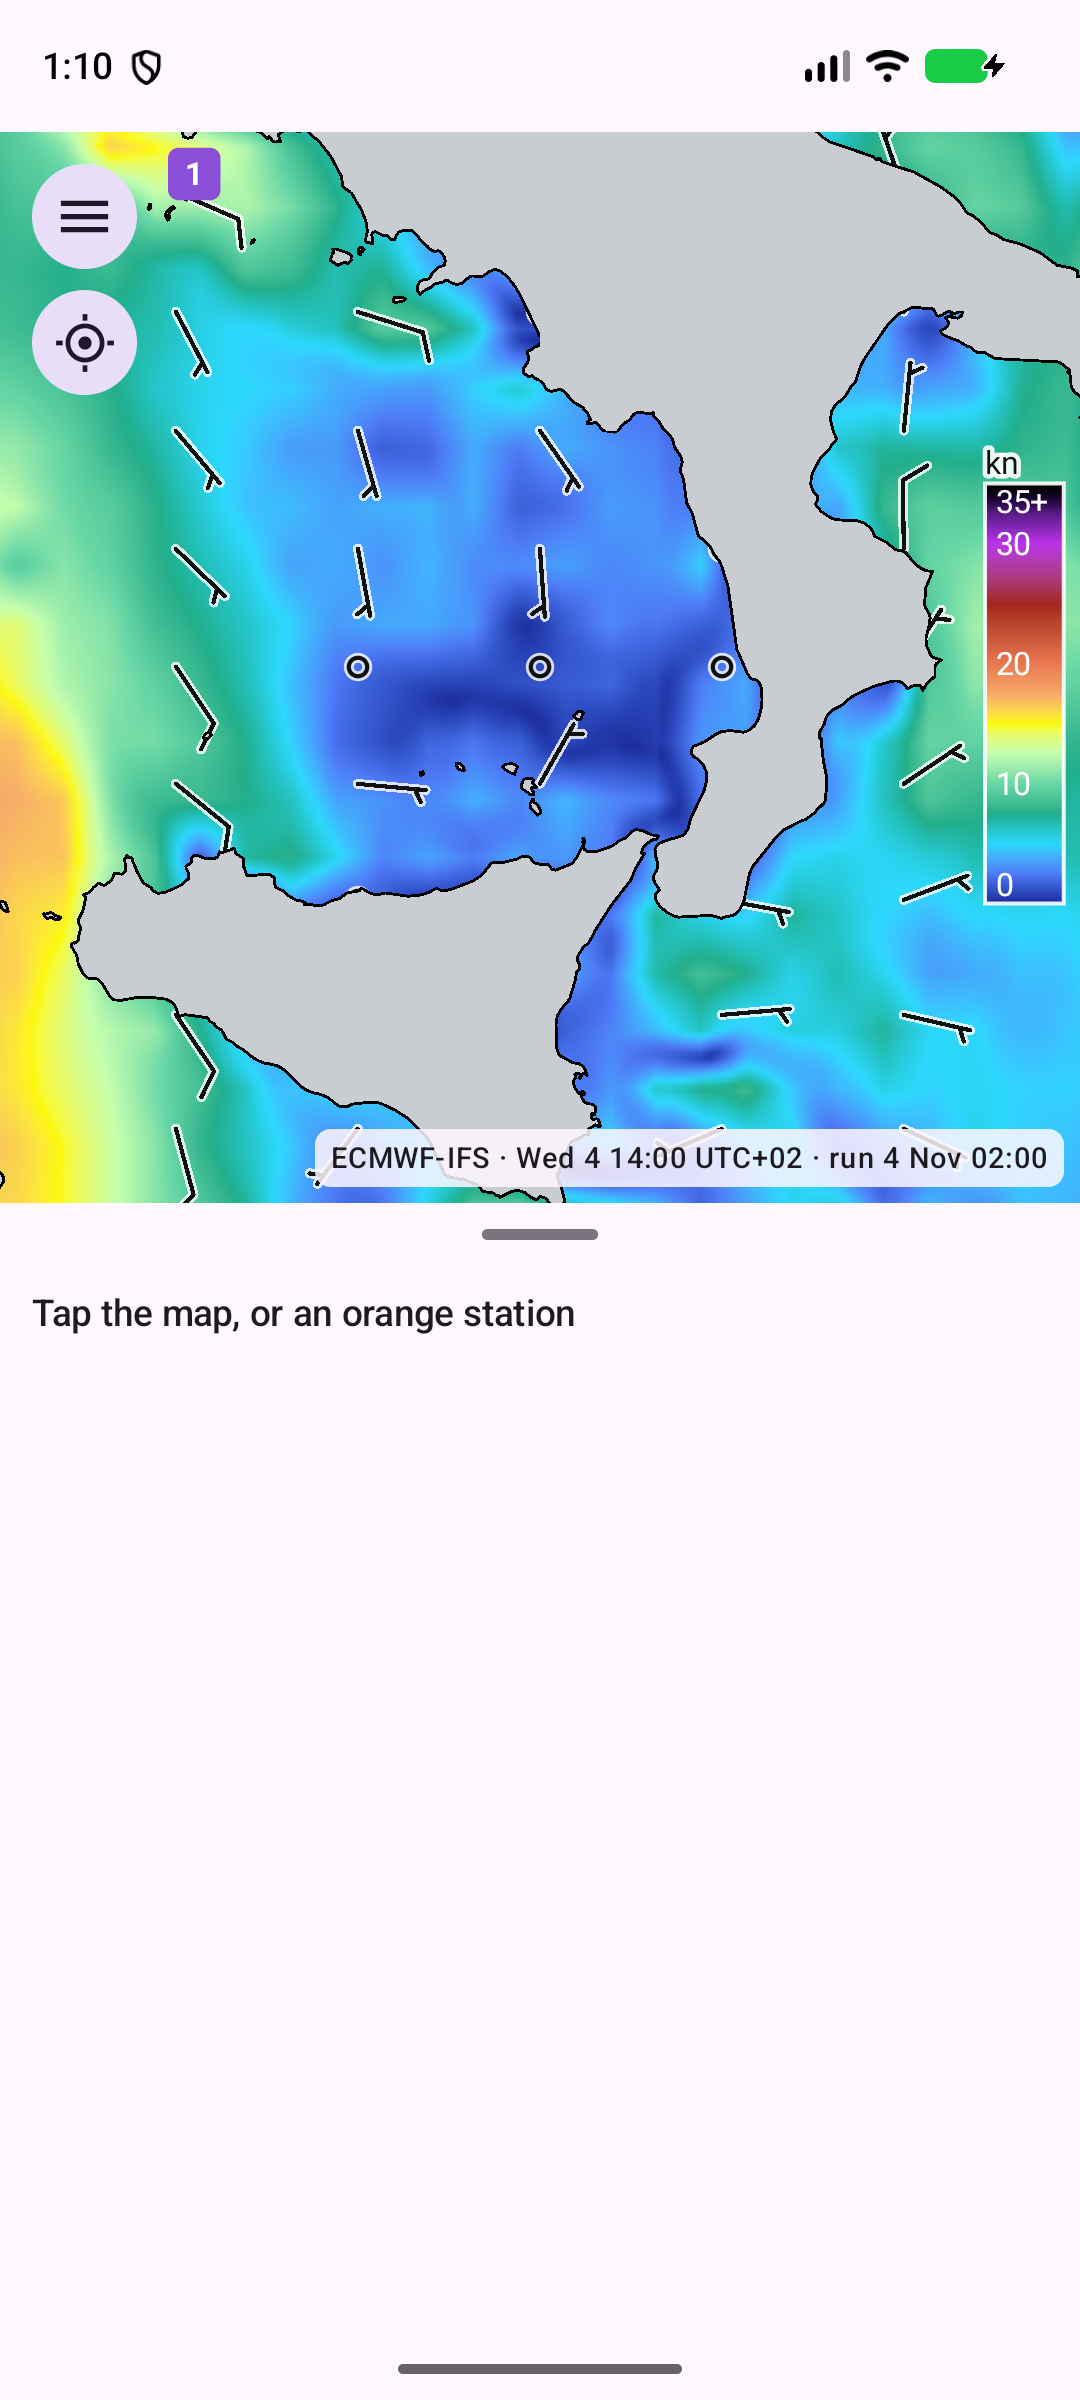
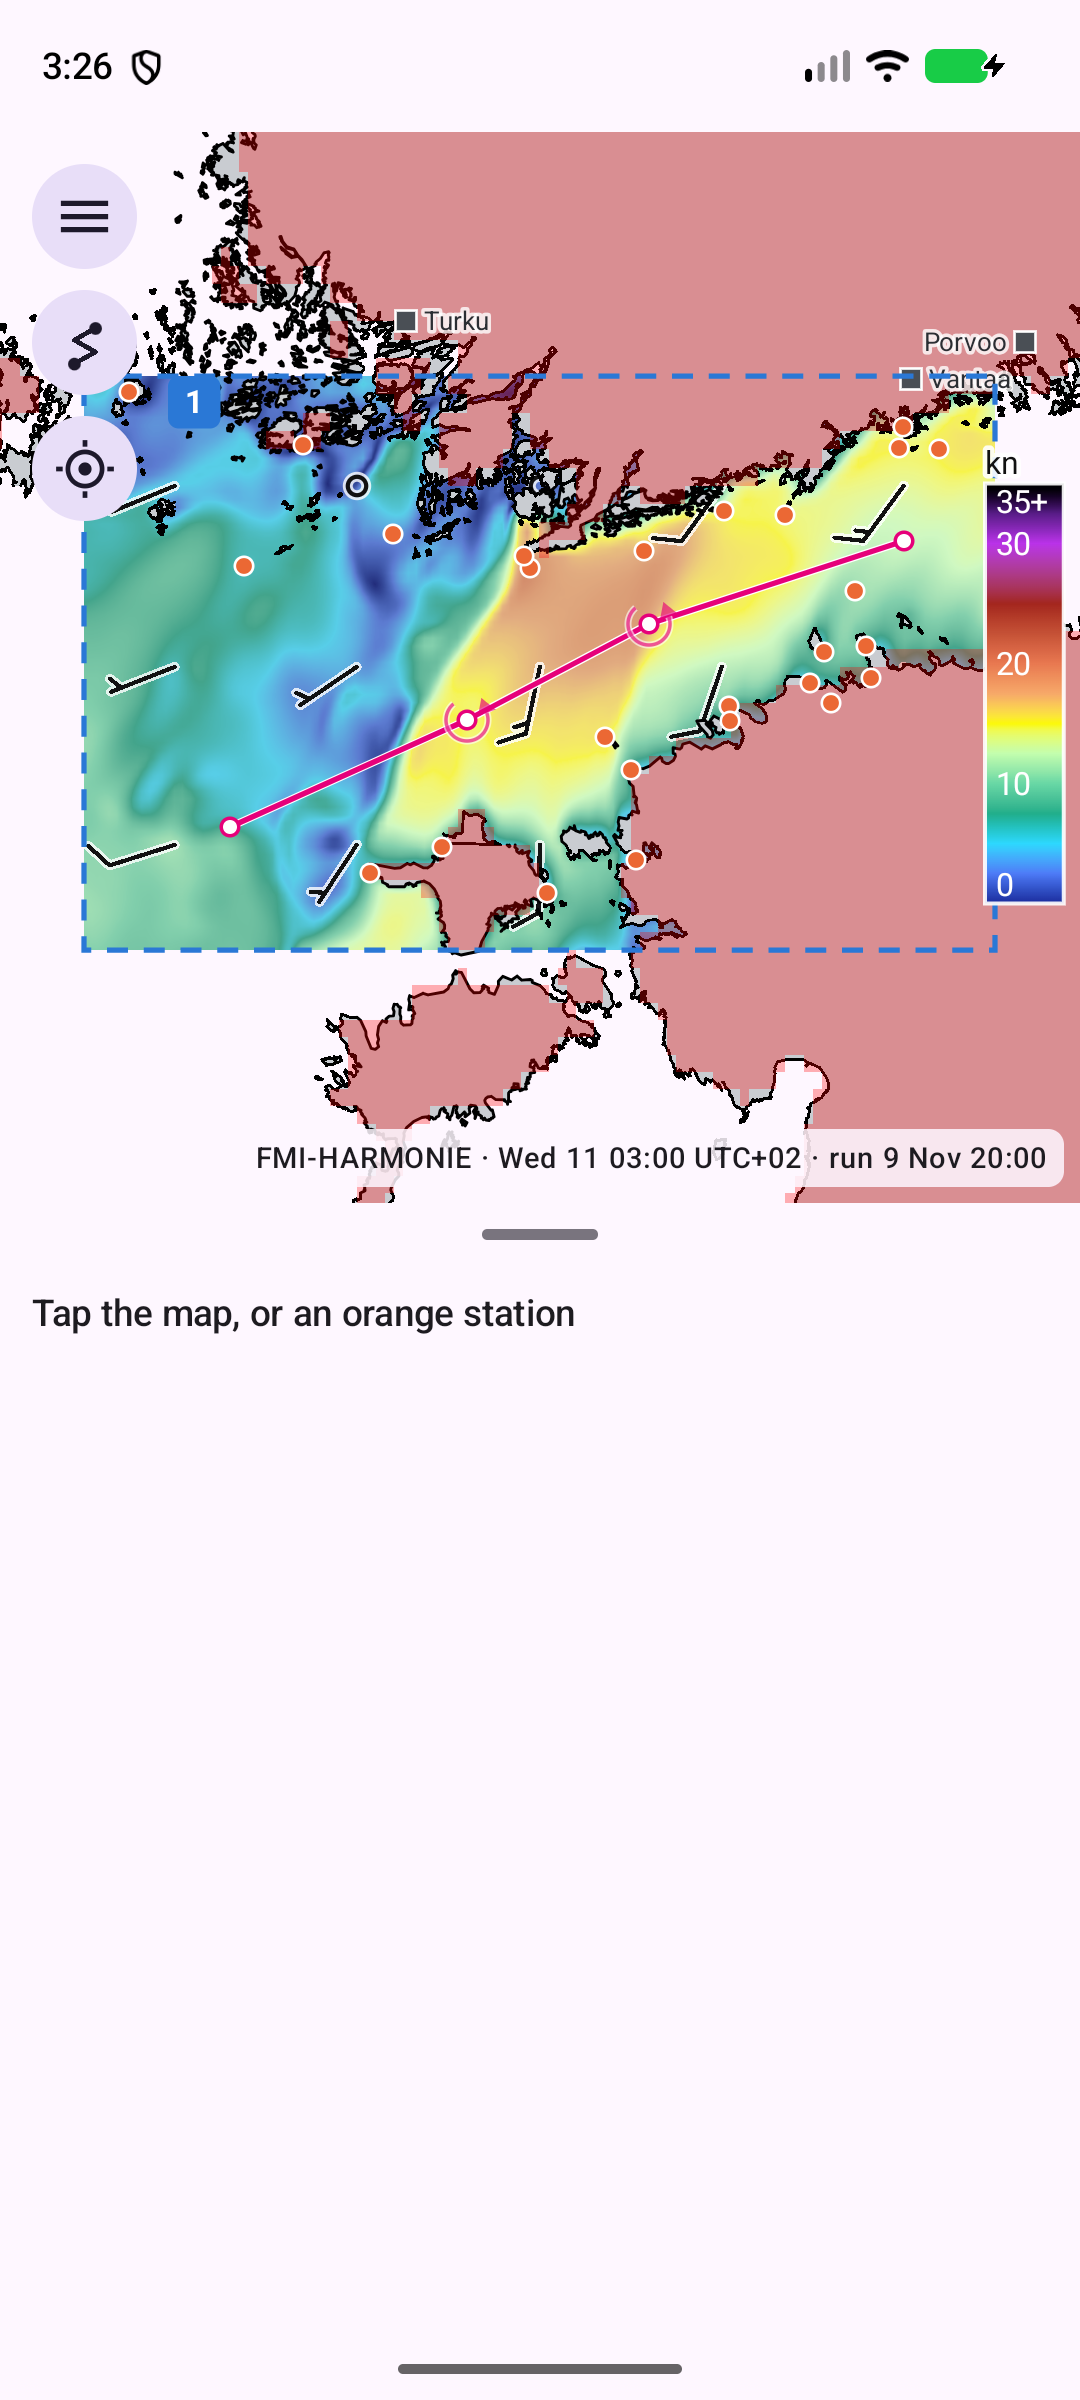
Manual: routing button, new map screenshot

diff --git a/docs/map.md b/docs/map.md
@@ -28,9 +28,13 @@ A tile whose newest run is more than 24 hours old fades to grey, fully grey at 4
 
 The finest model is drawn on top: ECMWF-IFS below ARPEGE below HARMONIE, so you see the fine model where it exists and the coarser ones around it. To look at a layer that is covered, hide the ones above it by tapping their names in the chart legend ([Charts](charts.md)).
 
+## Routing button
+
+The button under the menu button (a zigzag route with a dot at each end) opens the same window as **Routing…** in the menu: your routes, saved plans and "Plan a passage" ([Routing](routing.md)).
+
 ## Location button
 
-The button under the menu button finds your position (one fix; GPS if you allowed precise location), selects that point as if you had tapped it, and centres the map there. The position is not stored or sent anywhere.
+The button under the routing button finds your position (one fix; GPS if you allowed precise location), selects that point as if you had tapped it, and centres the map there. The position is not stored or sent anywhere.
 
 ## Divider
 

diff --git a/docs/routing.md b/docs/routing.md
@@ -2,7 +2,7 @@
 
 The routing part of WindBrowser answers: *if I sail this route, leaving at this time, when do I arrive, how fast do I go, and what wind do I meet?* It does **not** look for a better route: the route is yours, from your chart plotter or Navionics, and the app sails it on the computer with the forecasts stored on the phone.
 
-Open it from the map menu: **Routing…**.
+Open it from the map menu: **Routing…**, or with the routing button under the menu button on the map.
 
 ## Import a route
 
